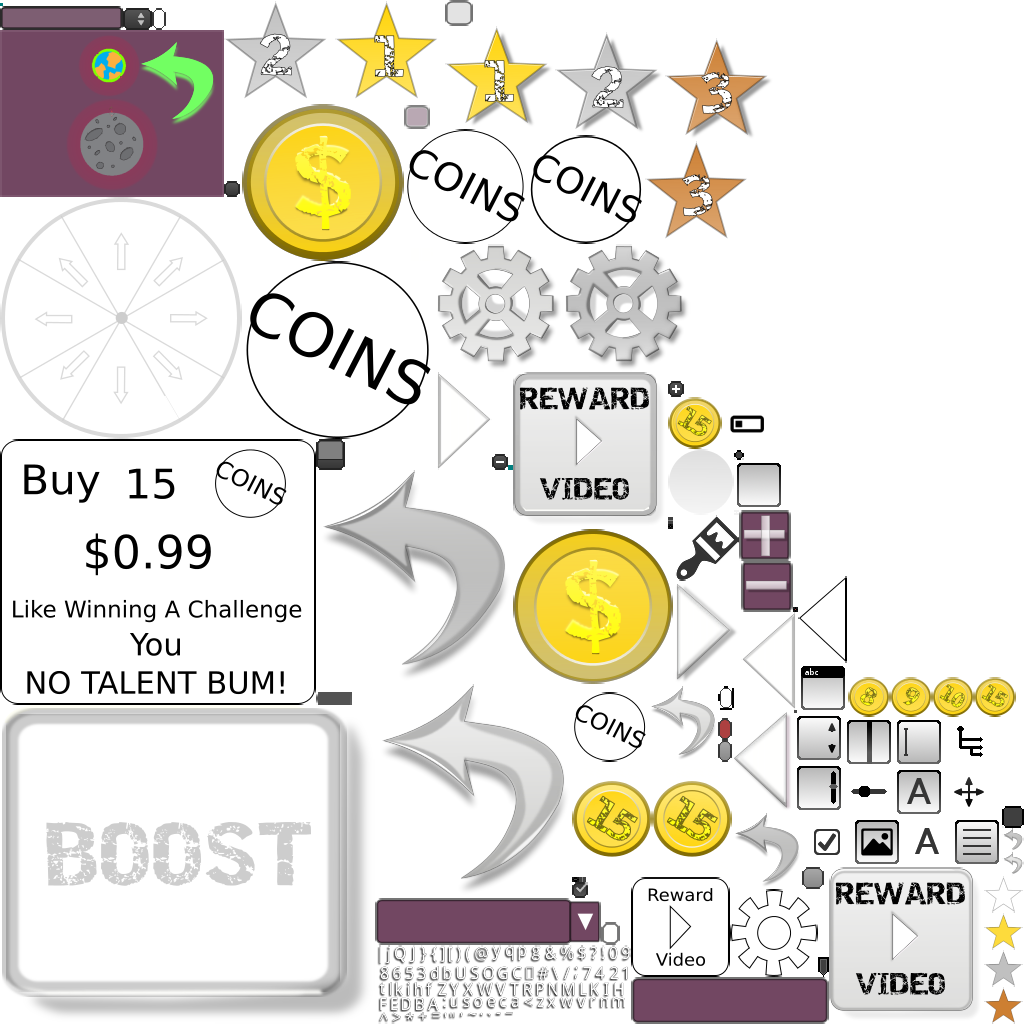
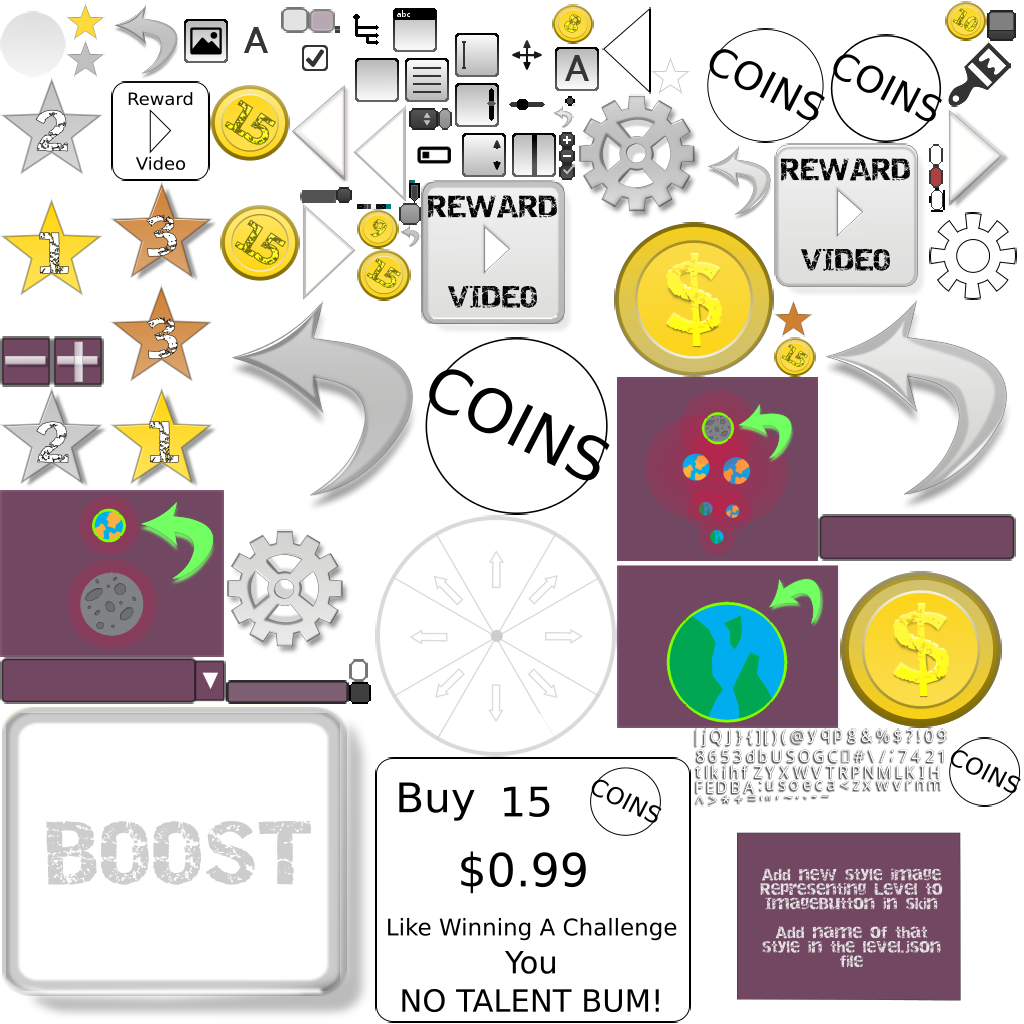
Basic level intro works

diff --git a/core/src/com/araceinspace/Managers/LevelManager.java b/core/src/com/araceinspace/Managers/LevelManager.java
@@ -48,6 +48,7 @@ public class LevelManager {
     public int playerTime;
     public int ghostTime;
     public boolean didFail; // set to true if the player exploads in contact listener checked by score screen
+    String levelStyle = "introtest"; //used by dialog manager to figure out what picture to load
 
     /* Constructors */
     public LevelManager(GameWorld p){
@@ -459,5 +460,20 @@ public class LevelManager {
     }
     public void playGame(Skin skin, Stage stage, Viewport viewport){
         parent.dialogManager.setupLevelIntroDialog(parent.levelManager.getCurrentLevel(), skin, stage, viewport);
+    }
+
+    public String getIntroStyleByLevel(){
+        Json json = new Json();
+        ArrayList<SpriteTemplate>levelItems = json.fromJson(ArrayList.class, SpriteTemplate.class, getLevelFile(currentLevel));
+        //go through all the level items, find the player item and initialze him
+        for(int i = 0; i < levelItems.size(); i++) {
+            SpriteTemplate item = levelItems.get(i);
+            if (item.getType().equals("style")) {
+                levelStyle = item.getExtraInfo();
+            }else{
+                levelStyle = "introtest";
+            }
+        }
+        return levelStyle;
     }
 }

diff --git a/core/src/com/araceinspace/Managers/DialogManager.java b/core/src/com/araceinspace/Managers/DialogManager.java
@@ -192,7 +192,9 @@ public class DialogManager {
         //levelIntroDialog.getButtonTable().setDebug(parent.devMode);
 
         levelIntroDialog.align(Align.center);
-        ImageButton introButton = new ImageButton(skin, "introtest");
+        String buttonStyle = parent.levelManager.getIntroStyleByLevel();
+        System.out.println("buttonSytle:" + buttonStyle+":");
+        ImageButton introButton = new ImageButton(skin, buttonStyle);
        // levelIntroDialog.getContentTable().setFillParent(true);
         //levelIntroDialog.getButtonTable().add(introButton);
         ImageTextButton button = new ImageTextButton("PLAY!", skin);

diff --git a/core/src/com/araceinspace/Managers/GameStateManager.java b/core/src/com/araceinspace/Managers/GameStateManager.java
@@ -22,8 +22,8 @@ public class GameStateManager {
         parent = p;
         stateStack = new Stack<GAME_STATE>();
         parent.levelManager.setLevel(1);
-        //setCurrentState(GAME_STATE.TITLE_SCREEN);
-        setCurrentState(GAME_STATE.PREGAME);
+        setCurrentState(GAME_STATE.TITLE_SCREEN);
+        //setCurrentState(GAME_STATE.PREGAME);
 
     }
 
